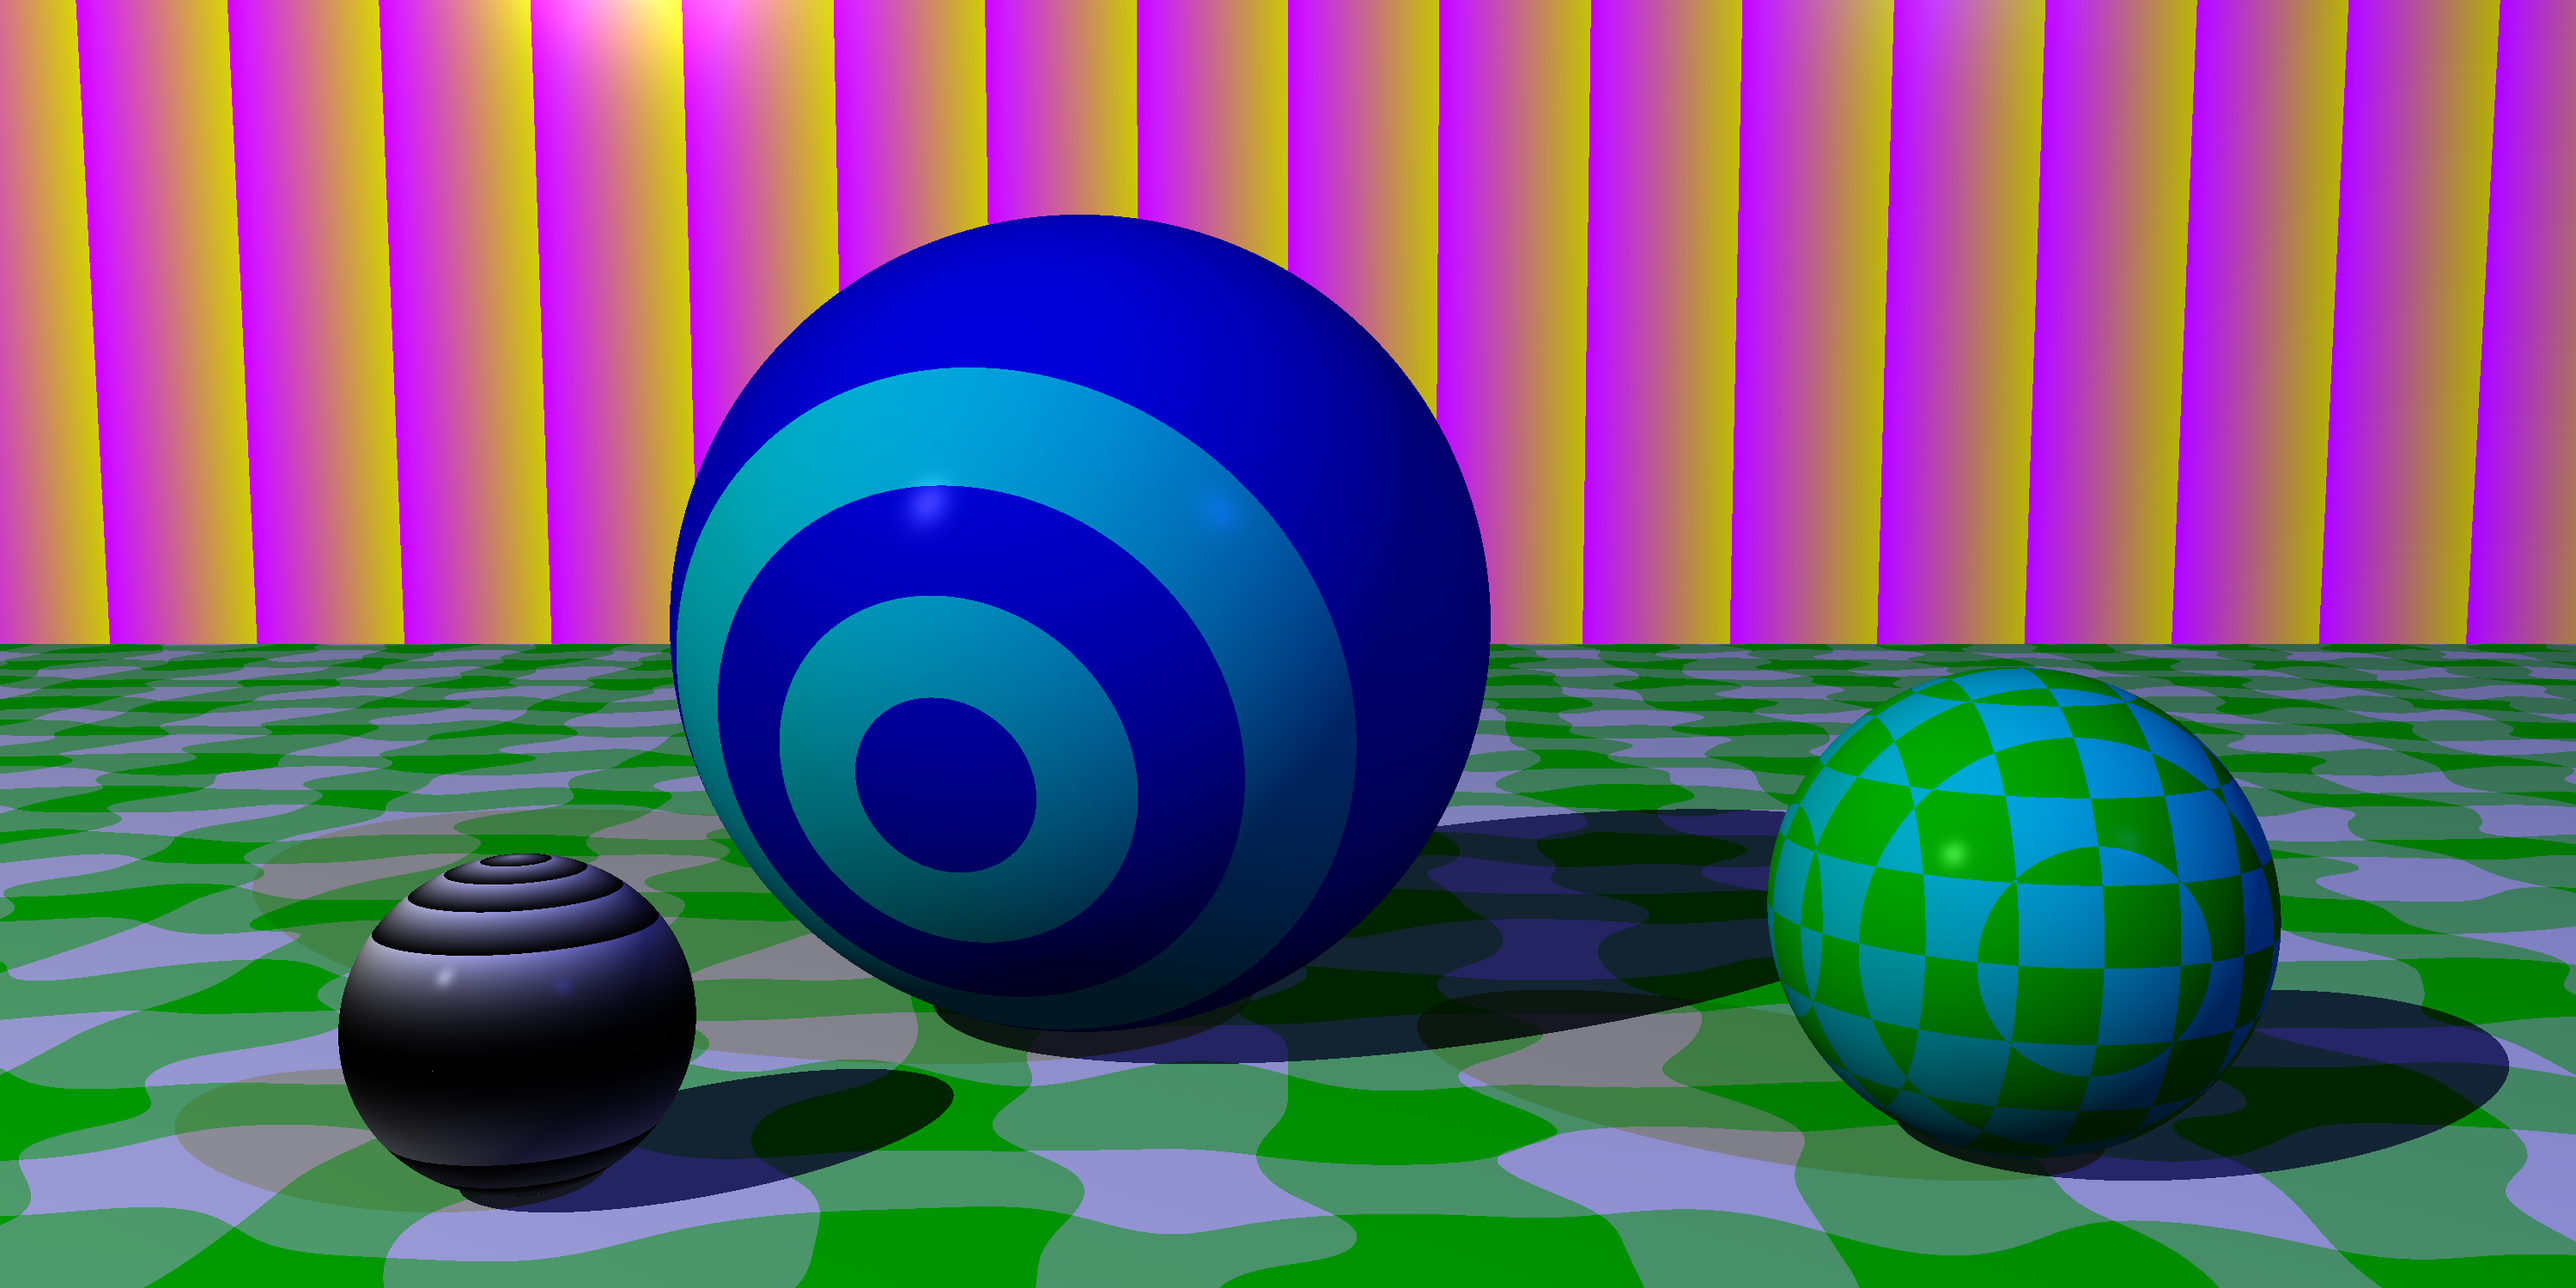
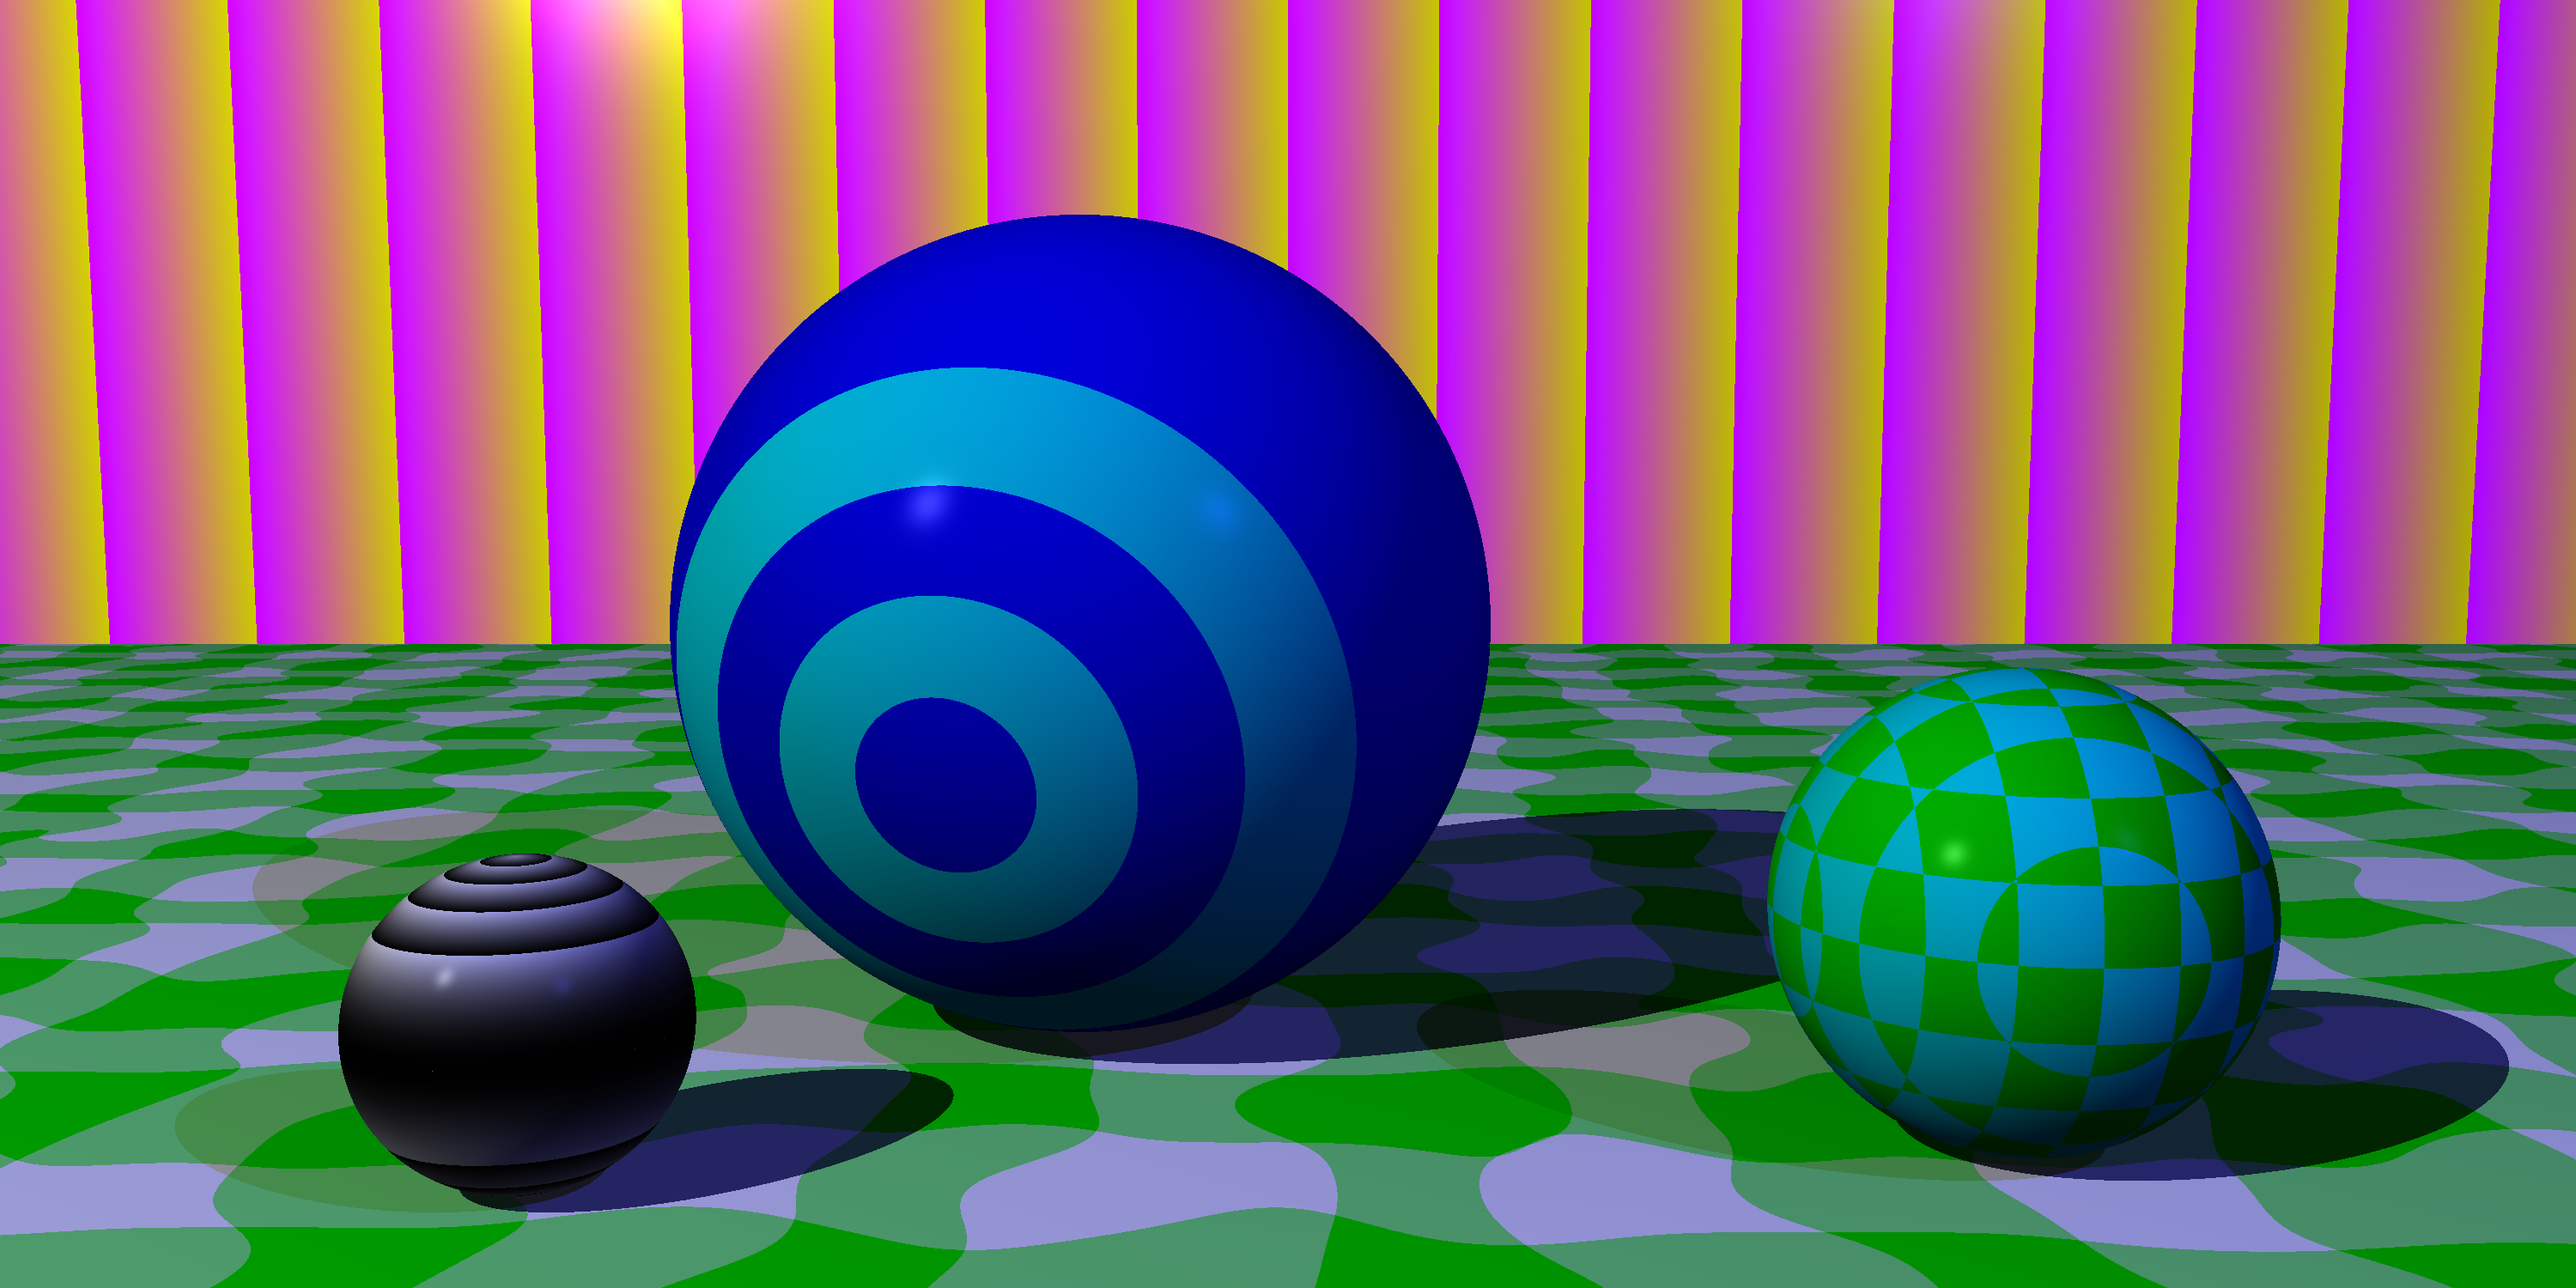
Pass rng parameter to Perturbed Pattern's so we can use a fixed seed

Changed region(s): [[0.0, 0.4907, 1.0, 1.0]]

diff --git a/src/pattern/mod.rs b/src/pattern/mod.rs
@@ -13,6 +13,7 @@ mod test;
 mod util;
 
 use paste::paste;
+use rand::Rng;
 use typed_builder::{Optional, TypedBuilder};
 
 #[cfg(test)]
@@ -60,13 +61,21 @@ impl Pattern {
     add_kind_fn!(Blend);
     add_kind_fn!(Checker);
     add_kind_fn!(Gradient);
-    add_kind_fn!(Perturbed(scale: f64, pattern: Self));
     add_kind_fn!(RadialGradient);
     add_kind_fn!(Ring);
     add_kind_fn!(Stripe);
     add_kind_fn!(Solid(colour: Colour));
     #[cfg(test)]
     add_kind_fn!(Test());
+
+    pub fn perturbed_builder<R: Rng>(
+        scale: f64,
+        pattern: Self,
+        rng: &mut R,
+    ) -> PatternBuilder<((), (Kind,))> {
+        Self::_builder()
+            .kind(Kind::Perturbed(Perturbed::new(scale, pattern, rng)))
+    }
 
     #[must_use]
     pub fn pattern_at(&self, object: &Object, point: &Point) -> Colour {
@@ -109,10 +118,14 @@ impl<T: Optional<Transformation>> PatternBuilder<(T, (Kind,))> {
 
 #[cfg(test)]
 mod tests {
+    use rand::SeedableRng;
+    use rand_xoshiro::Xoroshiro128PlusPlus;
+
     use super::*;
     use crate::math::float::*;
 
     #[test]
+    #[allow(clippy::many_single_char_names)]
     fn creating_a_pattern() {
         let t = Transformation::new().translate(1.0, 2.0, 3.0);
         let ti = t.invert();
@@ -145,7 +158,6 @@ mod tests {
         test_pattern!(Blend(w, b));
         test_pattern!(Checker(w, b));
         test_pattern!(Gradient(w, b));
-        test_pattern!(Perturbed(0.3, w));
         test_pattern!(RadialGradient(w, b));
         test_pattern!(Ring(w, b));
         test_pattern!(Stripe(w, b));
@@ -154,6 +166,18 @@ mod tests {
 
         test_pattern!(Solid(w));
         test_pattern!(Test());
+
+        let mut r = Xoroshiro128PlusPlus::seed_from_u64(251);
+
+        let p = Kind::Perturbed(Perturbed::new(0.3, w.into(), &mut r));
+
+        let pn = Pattern::perturbed_builder(0.3, w.into(), &mut r)
+            .transformation(t)
+            .build();
+
+        assert_approx_eq!(pn.transformation, t);
+        assert_approx_eq!(pn.inverse_transformation, ti);
+        assert_approx_eq!(pn.kind, &p);
     }
 
     #[test]

diff --git a/src/pattern/perturbed.rs b/src/pattern/perturbed.rs
@@ -1,5 +1,5 @@
 use libnoise::{Generator, Simplex, Source};
-use rand::random;
+use rand::Rng;
 
 use super::{Pattern, PatternAt};
 use crate::{
@@ -18,8 +18,8 @@ pub struct Perturbed {
 
 impl Perturbed {
     #[must_use]
-    pub fn new(scale: f64, pattern: Pattern) -> Self {
-        let noise = Source::simplex(random());
+    pub fn new<R: Rng>(scale: f64, pattern: Pattern, rng: &mut R) -> Self {
+        let noise = Source::simplex(rng.gen());
 
         Self { noise: Box::new(noise), scale, pattern: Box::new(pattern) }
     }
@@ -44,6 +44,9 @@ impl_approx_eq!(&Perturbed { scale, ref pattern });
 
 #[cfg(test)]
 mod tests {
+    use rand::SeedableRng;
+    use rand_xoshiro::Xoroshiro128PlusPlus;
+
     use super::*;
     use crate::math::float::*;
 
@@ -53,7 +56,9 @@ mod tests {
 
     #[test]
     fn creating_a_perturbed_pattern() {
-        let p = Perturbed::new(0.4, Colour::red().into());
+        let mut r = Xoroshiro128PlusPlus::seed_from_u64(1);
+
+        let p = Perturbed::new(0.4, Colour::red().into(), &mut r);
 
         assert_approx_eq!(p.scale, 0.4);
         assert_approx_eq!(
@@ -64,16 +69,20 @@ mod tests {
 
     #[test]
     fn a_perturbed_pattern() {
-        let p = Perturbed::new(0.4, Colour::red().into());
+        let mut r = Xoroshiro128PlusPlus::seed_from_u64(2);
+
+        let p = Perturbed::new(0.4, Colour::red().into(), &mut r);
 
         assert_approx_eq!(p.pattern_at(&Point::origin()), Colour::red());
     }
 
     #[test]
     fn comparing_perturbed_patterns() {
-        let p1 = Perturbed::new(0.2, Colour::cyan().into());
-        let p2 = Perturbed::new(0.2, Colour::cyan().into());
-        let p3 = Perturbed::new(0.3, Colour::cyan().into());
+        let mut r = Xoroshiro128PlusPlus::seed_from_u64(3);
+
+        let p1 = Perturbed::new(0.2, Colour::cyan().into(), &mut r);
+        let p2 = Perturbed::new(0.2, Colour::cyan().into(), &mut r);
+        let p3 = Perturbed::new(0.3, Colour::cyan().into(), &mut r);
 
         assert_approx_eq!(p1, &p2);
 

diff --git a/src/scene/chapter10.rs b/src/scene/chapter10.rs
@@ -1,5 +1,6 @@
 use std::f64::consts::{FRAC_PI_2, FRAC_PI_3};
 
+use rand::Rng;
 use raytracer::{
     math::{Angle, Point, Transformation, Vector},
     Camera, Colour, Material, Object, Pattern, PointLight, World,
@@ -10,7 +11,7 @@ use crate::arguments::Arguments;
 
 #[must_use]
 #[allow(clippy::too_many_lines)]
-pub fn generate_scene(arguments: &Arguments) -> SceneData {
+pub fn generate_scene<R: Rng>(arguments: &Arguments, rng: &mut R) -> SceneData {
     let horizontal_size = arguments.width.unwrap_or(1000);
     let vertical_size = arguments.height.unwrap_or(500);
     let field_of_view = arguments.fov.unwrap_or(Angle(FRAC_PI_3));
@@ -56,6 +57,7 @@ pub fn generate_scene(arguments: &Arguments) -> SceneData {
                                 .build(),
                             )
                             .build(),
+                            rng,
                         )
                         .build(),
                     )

diff --git a/src/scene/mod.rs b/src/scene/mod.rs
@@ -43,7 +43,7 @@ impl Scene {
             Self::Chapter6 => chapter6::generate_scene(arguments),
             Self::Chapter8 => chapter8::generate_scene(arguments),
             Self::Chapter9 => chapter9::generate_scene(arguments),
-            Self::Chapter10 => chapter10::generate_scene(arguments),
+            Self::Chapter10 => chapter10::generate_scene(arguments, rng),
             Self::Chapter11 => chapter11::generate_scene(arguments),
             Self::Chapter11Water => chapter11::generate_water_scene(arguments),
             Self::Chapter12 => chapter12::generate_scene(arguments),
